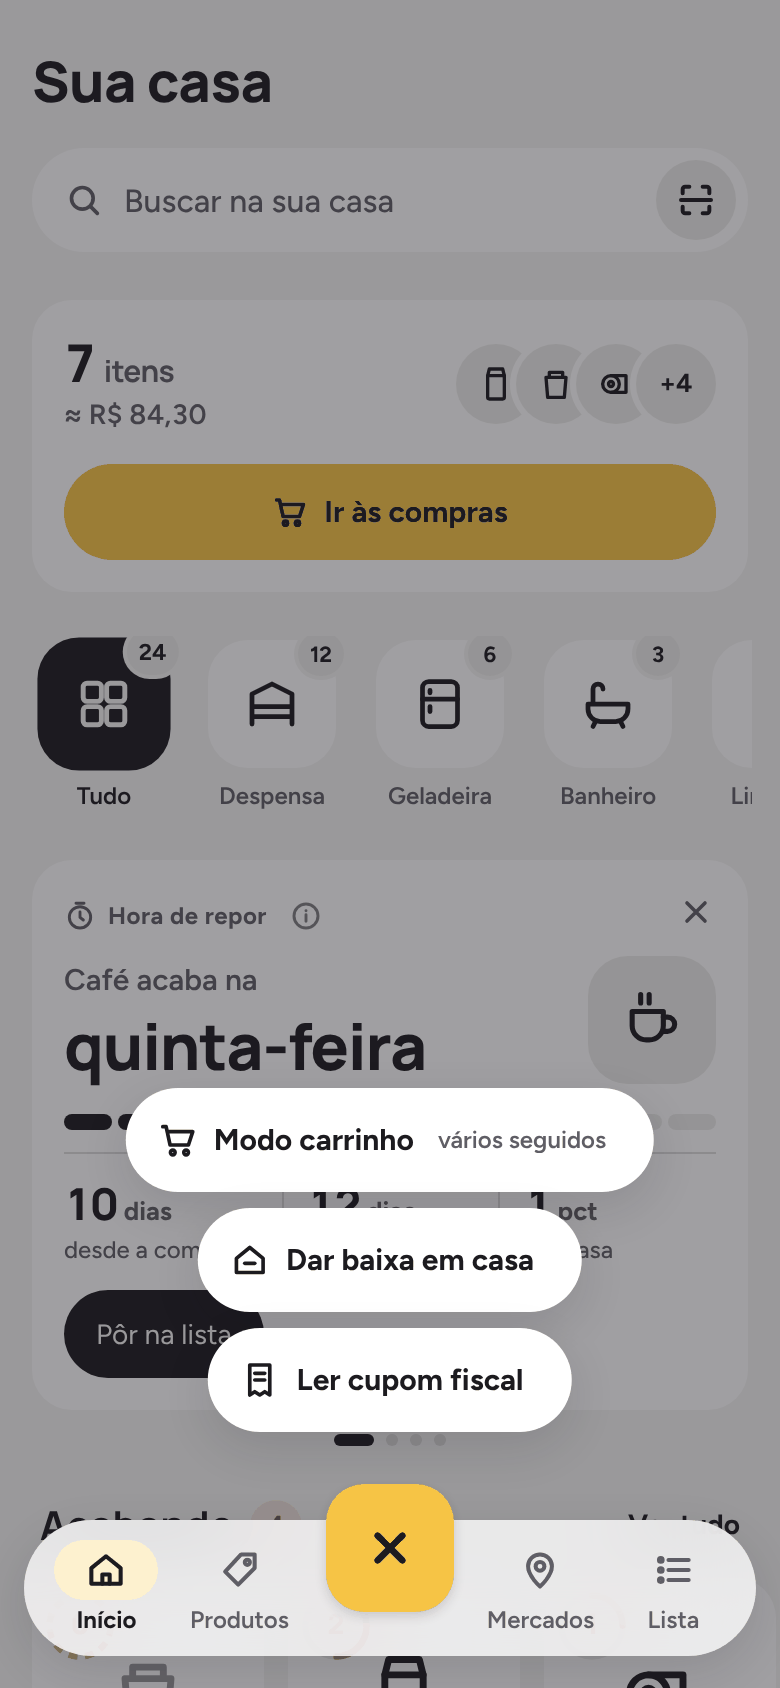
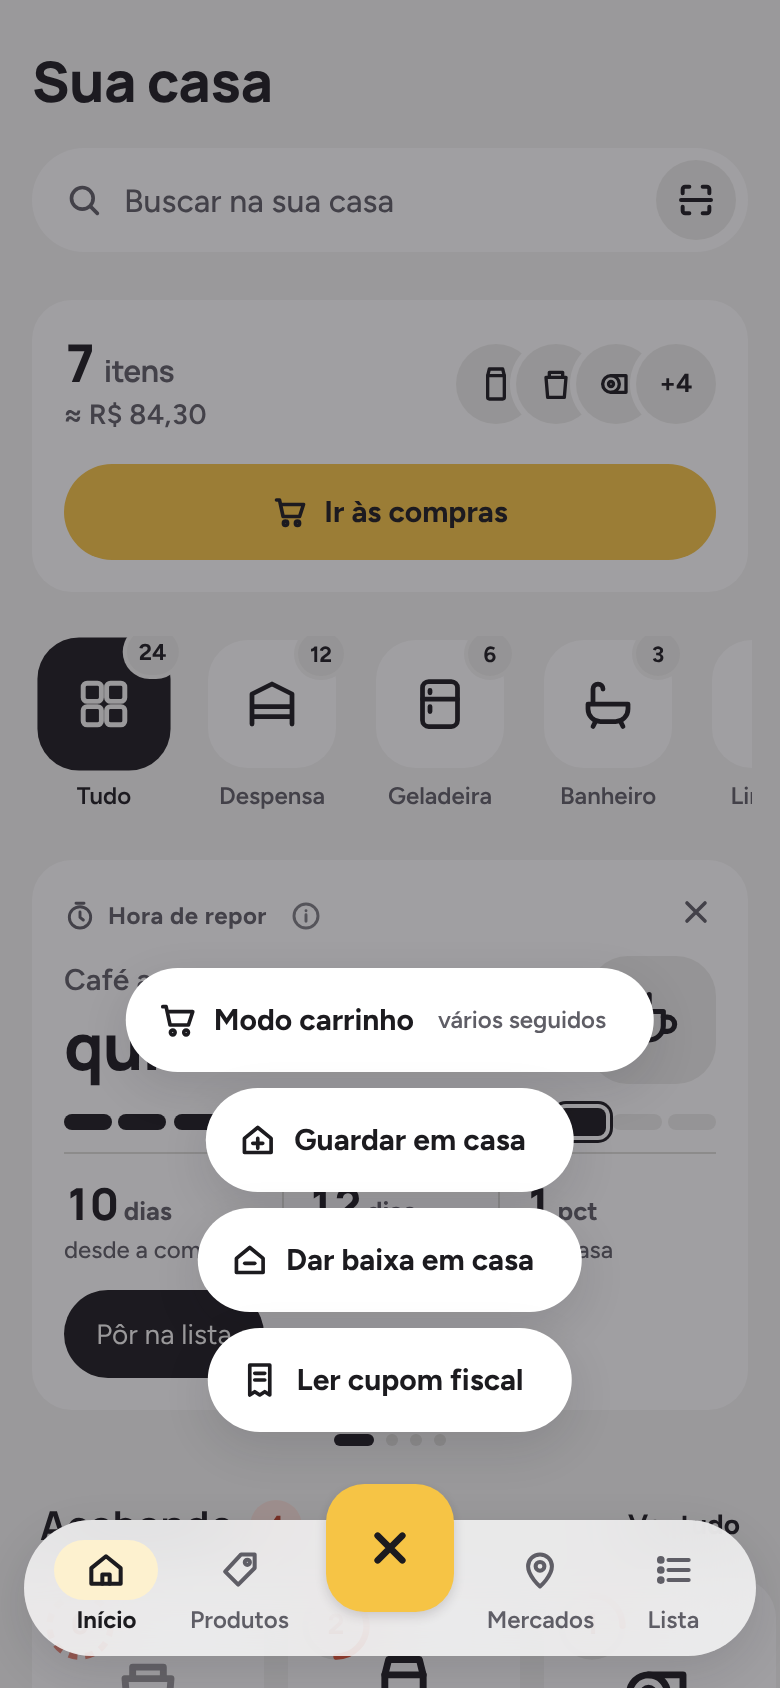
feat(scan): adiciona "guardar em casa" ao menu do bipar
O modo "Comprei" da câmera só abria pelo Início vazio. Agora o toque
longo no bipar oferece "Guardar em casa", que soma cada código em casa e
tira da lista (ADR 0019). A prancha do menu no protótipo acompanha.

Claude-Session: https://claude.ai/code/session_01XoR8k38DG85jdEd8v6SSEa

Changed region(s): [[0.1538, 0.5545, 0.8615, 0.7085]]

diff --git a/docs/design/prototipo/fonte/MenuBipar.dc.html b/docs/design/prototipo/fonte/MenuBipar.dc.html
@@ -236,6 +236,7 @@ a{color:#1C1B22}a:hover{color:#B00E28}
       <a class="bipa-nav__dest" href="Lista.dc.html" style="text-decoration: none;"><span class="bipa-nav__icon"><svg viewBox="0 0 24 24" fill="none" stroke="currentColor" stroke-width="2.2" stroke-linecap="round" stroke-linejoin="round" aria-hidden="true"><path d="M9 6.5h11M9 12h11M9 17.5h11"/><circle cx="4.8" cy="6.5" r="1"/><circle cx="4.8" cy="12" r="1"/><circle cx="4.8" cy="17.5" r="1"/></svg></span><span class="bipa-nav__label">Lista</span></a>
       <div class="bipa-scan-menu is-open" role="menu">
         <a class="bipa-scan-menu__item" href="ModoCarrinho.dc.html" role="menuitem" style="text-decoration: none;"><svg viewBox="0 0 24 24" fill="none" stroke="currentColor" stroke-width="2.2" stroke-linecap="round" stroke-linejoin="round" aria-hidden="true"><path d="M3 4h2l2.4 11h11L21 7H6.2"/><circle cx="9" cy="19.5" r="1.4"/><circle cx="17" cy="19.5" r="1.4"/></svg>Modo carrinho<small>vários seguidos</small></a>
+        <a class="bipa-scan-menu__item" href="Main.dc.html" role="menuitem" style="text-decoration: none;"><svg viewBox="0 0 24 24" fill="none" stroke="currentColor" stroke-width="2.2" stroke-linecap="round" stroke-linejoin="round" aria-hidden="true"><path d="M4 11l8-6.5 8 6.5v8.5H4z"/><path d="M12 11v6M9 14h6"/></svg>Guardar em casa</a>
         <a class="bipa-scan-menu__item" href="Main.dc.html" role="menuitem" style="text-decoration: none;"><svg viewBox="0 0 24 24" fill="none" stroke="currentColor" stroke-width="2.2" stroke-linecap="round" stroke-linejoin="round" aria-hidden="true"><path d="M4 11l8-6.5 8 6.5v8.5H4z"/><path d="M9 14h6"/></svg>Dar baixa em casa</a>
         <a class="bipa-scan-menu__item" href="Main.dc.html" role="menuitem" style="text-decoration: none;"><svg viewBox="0 0 24 24" fill="none" stroke="currentColor" stroke-width="2.2" stroke-linecap="round" stroke-linejoin="round" aria-hidden="true"><path d="M6 3h12v18l-3-2-3 2-3-2-3 2z"/><path d="M9 8h6M9 12h6"/></svg>Ler cupom fiscal</a>
       </div>

diff --git a/lib/app/home_shell.dart b/lib/app/home_shell.dart
@@ -82,7 +82,8 @@ class HomeShell extends ConsumerWidget {
     );
   }
 
-  /// Segurar o bipar: o modo carrinho ou dar baixa em casa.
+  /// Segurar o bipar: o modo carrinho, guardar em casa o que chegou ou dar
+  /// baixa em casa.
   static Future<void> _openScanMenu(BuildContext context, WidgetRef ref, {required bool shopping}) async {
     final l10n = AppLocalizations.of(context);
     final choice = await showScanMenu<_ScanAction>(
@@ -95,6 +96,7 @@ class HomeShell extends ConsumerWidget {
           label: l10n.scanMenuCart,
           hint: l10n.scanMenuCartHint,
         ),
+        (value: _ScanAction.bought, icon: Icons.add_home_outlined, label: l10n.scanMenuBought, hint: null),
         (value: _ScanAction.used, icon: Icons.home_outlined, label: l10n.scanMenuUsed, hint: null),
       ],
     );
@@ -104,6 +106,8 @@ class HomeShell extends ConsumerWidget {
         await context.push(Routes.cartMode);
       case _ScanAction.cart:
         await startShopping(context, ref);
+      case _ScanAction.bought:
+        await context.push(Routes.cameraBought);
       case _ScanAction.used:
         await context.push(Routes.cameraUsed);
       case null:
@@ -119,4 +123,4 @@ class HomeShell extends ConsumerWidget {
 }
 
 /// As opções do menu do bipar.
-enum _ScanAction { cart, used }
+enum _ScanAction { cart, bought, used }

diff --git a/docs/design/prototipo/README.md b/docs/design/prototipo/README.md
@@ -9,7 +9,7 @@ Cada tela tem uma imagem (390 px de largura, em 2x) e o HTML de origem em [`font
 | Tela | Imagem | No app |
 | --- | --- | --- |
 | **Início**: busca com bipar, a lista (miniaturas, total estimado e "Ir às compras"), locais como categorias, carrossel de insights, prateleira de "Acabando" e lista "Em casa" com o medidor de nível. | [Main.png](telas/Main.png) | Feita, sem os insights |
-| **Menu do bipar**: o toque longo no botão de bipar abre Modo carrinho, Dar baixa em casa e Ler cupom fiscal. | [MenuBipar.png](telas/MenuBipar.png) | Feita, sem "Ler cupom fiscal" |
+| **Menu do bipar**: o toque longo no botão de bipar abre Modo carrinho, Guardar em casa, Dar baixa em casa e Ler cupom fiscal. | [MenuBipar.png](telas/MenuBipar.png) | Feita, sem "Ler cupom fiscal". "Guardar em casa" aguarda revisão |
 | **Captura**: a câmera abre direto, com o mercado no topo, a moldura de leitura, o seletor Etiqueta · Código · Cupom, o disparo, "digitar o preço" e o modo carrinho. | [Captura.png](telas/Captura.png) | Feita: a câmera lê ao vivo, como o carrinho, e ainda não tem o modo Cupom; o disparo fotografa a etiqueta no formulário antigo |
 | **Confirmação**: folha para conferir e salvar, com o produto, o preço em destaque, o lápis para corrigir, "Mais barato aqui" e "Também comprei", que soma ao estoque. | [Confirmacao.png](telas/Confirmacao.png) | Feita |
 | **Modo carrinho**: leitura contínua, com a bandeja do que você vai levar, o total e "Terminei". | [ModoCarrinho.png](telas/ModoCarrinho.png) | Feita |
